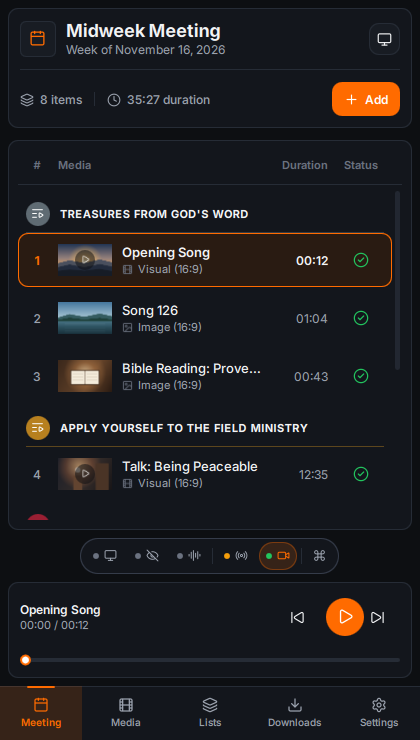
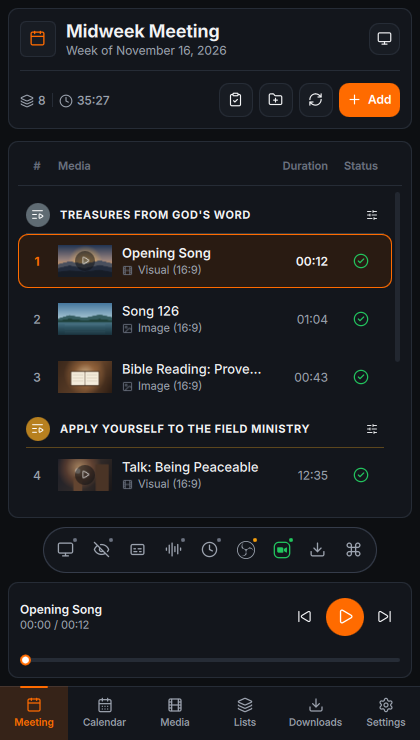
chore: refresh README screenshots (#53)
* chore: refresh README screenshots

* docs: embed refreshed Calendar, Media Library, and Settings screenshots

I added the newly captured Calendar, Media Library thumbnail grid, and two-pane Settings previews to the English and Portuguese user guides.

Refs #22

---------

diff --git a/docs/src/en/user-guide.md b/docs/src/en/user-guide.md
@@ -16,6 +16,12 @@ KMedia adapts automatically across desktop, split-screen booth laptops, and comp
 
 ![KMedia Compact Side-by-Side Layout](../assets/kmedia-compact-preview.png)
 
+![KMedia Monthly Meeting Calendar](../assets/kmedia-calendar-preview.png)
+
+![KMedia Visual Media Library Grid](../assets/kmedia-media-preview.png)
+
+![KMedia Searchable Two-Pane Settings](../assets/kmedia-settings-preview.png)
+
 1. **Left Navigation Rail / Compact Tabs:** Switch congregations cleanly, toggle Dark/Light theme, navigate between *Meeting*, *Calendar*, *Media*, *Playlists*, *Downloads*, and *Settings*, and inspect live OBS Studio, 2nd Display, Zoom, and free disk space.
 2. **Meeting Sections, Section Glyphs, Readiness Checklists & Visual Media Library:** Items in the active meeting group automatically under colored workbook section headers (*Treasures From God's Word*, *Apply Yourself to the Field Ministry*, *Living as Christians*, *Public Talk*, *Watchtower Study*, *Circuit Overseer*, or custom sections) with dedicated monochrome vector glyphs in normal operator mode (falling back to generic list glyphs in `--demo` mode). Click **Checklist** (`BoothChecklistPopup`) for pre-meeting and post-meeting booth verification checks, **Section** (`CustomSectionPopup`) to create/rename/recolor/reorder sections, and drag items smoothly across section boundaries (`moveItem`). Switch to *Media* for a 16:9 visual thumbnail grid (or compact list mode) with live keyword search, type filter pills (*All*, *Video*, *Audio*, *Image*, *PDF*), and a compact cloud-watch indicator pill.
 3. **Meeting Calendar & Special Events (`CalendarView`):** Inspect a Monday-first monthly calendar highlighting your congregation's configured midweek and weekend meeting days (`MWB` and *Watchtower* issue tags with green local-cache readiness badges), tag special event weeks (*Circuit Overseer Visit*, *Memorial*, *Circuit Assembly*, *Regional Convention*) via **Event** (`CalendarEventPopup`) to automatically inject the *Circuit Overseer* section or skip regular study sync on assembly/Memorial weeks, customize meeting days and start times (`Schedule` popup, persisted per congregation profile and applied automatically to background music fade-outs), preview the next four weeks, and click **Open Week** or **Sync Week** to jump straight into that week's meeting workspace.

diff --git a/docs/src/pt/user-guide.md b/docs/src/pt/user-guide.md
@@ -16,6 +16,12 @@ O KMedia se adapta automaticamente a telas largas de cabine, divisão 50/50 ou j
 
 ![Layout Compacto Lado a Lado do KMedia](../assets/kmedia-compact-preview.png)
 
+![Calendário Mensal de Reuniões do KMedia](../assets/kmedia-calendar-preview.png)
+
+![Grade Visual da Biblioteca de Mídias do KMedia](../assets/kmedia-media-preview.png)
+
+![Configurações em Duas Colunas com Busca do KMedia](../assets/kmedia-settings-preview.png)
+
 1. **Barra Lateral / Abas Compactas:** Alterne perfis de congregação e o tema Claro/Escuro, navegue entre *Reunião*, *Calendário*, *Mídias*, *Playlists*, *Downloads* e *Configurações*, e acompanhe em tempo real o status de OBS, 2ª Tela, Zoom e armazenamento livre em disco.
 2. **Seções Personalizadas, Ícones, Checklists e Biblioteca Visual:** Os itens da reunião ativa são agrupados sob cabeçalhos coloridos (*Tesouros da Palavra de Deus*, *Faça Seu Melhor no Ministério*, *Nossa Vida Cristã*, *Discurso Público*, *A Sentinela*, *Superintendente de Circuito* ou seções personalizadas), exibindo ícones vetoriais próprios no modo operador normal (e ícones genéricos no modo `--demo`). Clique em **Checklist** (`BoothChecklistPopup`) para conferência rápida pré e pós-reunião, **Section** (`CustomSectionPopup`) para criar/renomear/colorir/reordenar seções e arraste itens livremente entre divisores. Na aba *Mídias*, alterne entre grade visual de miniaturas 16:9 e lista compacta, filtre por tipo (*Tudo*, *Vídeo*, *Áudio*, *Imagem*, *PDF*) ou pesquise por nome com indicador compacto de pastas na nuvem.
 3. **Calendário de Reuniões e Eventos Especiais (`CalendarView`):** Visualize a grade mensal iniciando na segunda-feira com os dias configurados para reuniões de meio e fim de semana (`MWB` e *A Sentinela* com indicadores verdes de mídia em cache local), marque semanas especiais (*Visita do Superintendente*, *Celebração*, *Assembleia de Circuito*, *Congresso Regional*) via **Event** (`CalendarEventPopup`) para injetar automaticamente a seção *Circuit Overseer* ou ignorar a sincronização semanal padrão em eventos especiais, personalize os dias e horários da congregação (`Schedule`), acompanhe as próximas quatro semanas e use **Open Week** ou **Sync Week** para abrir ou sincronizar a semana escolhida.
